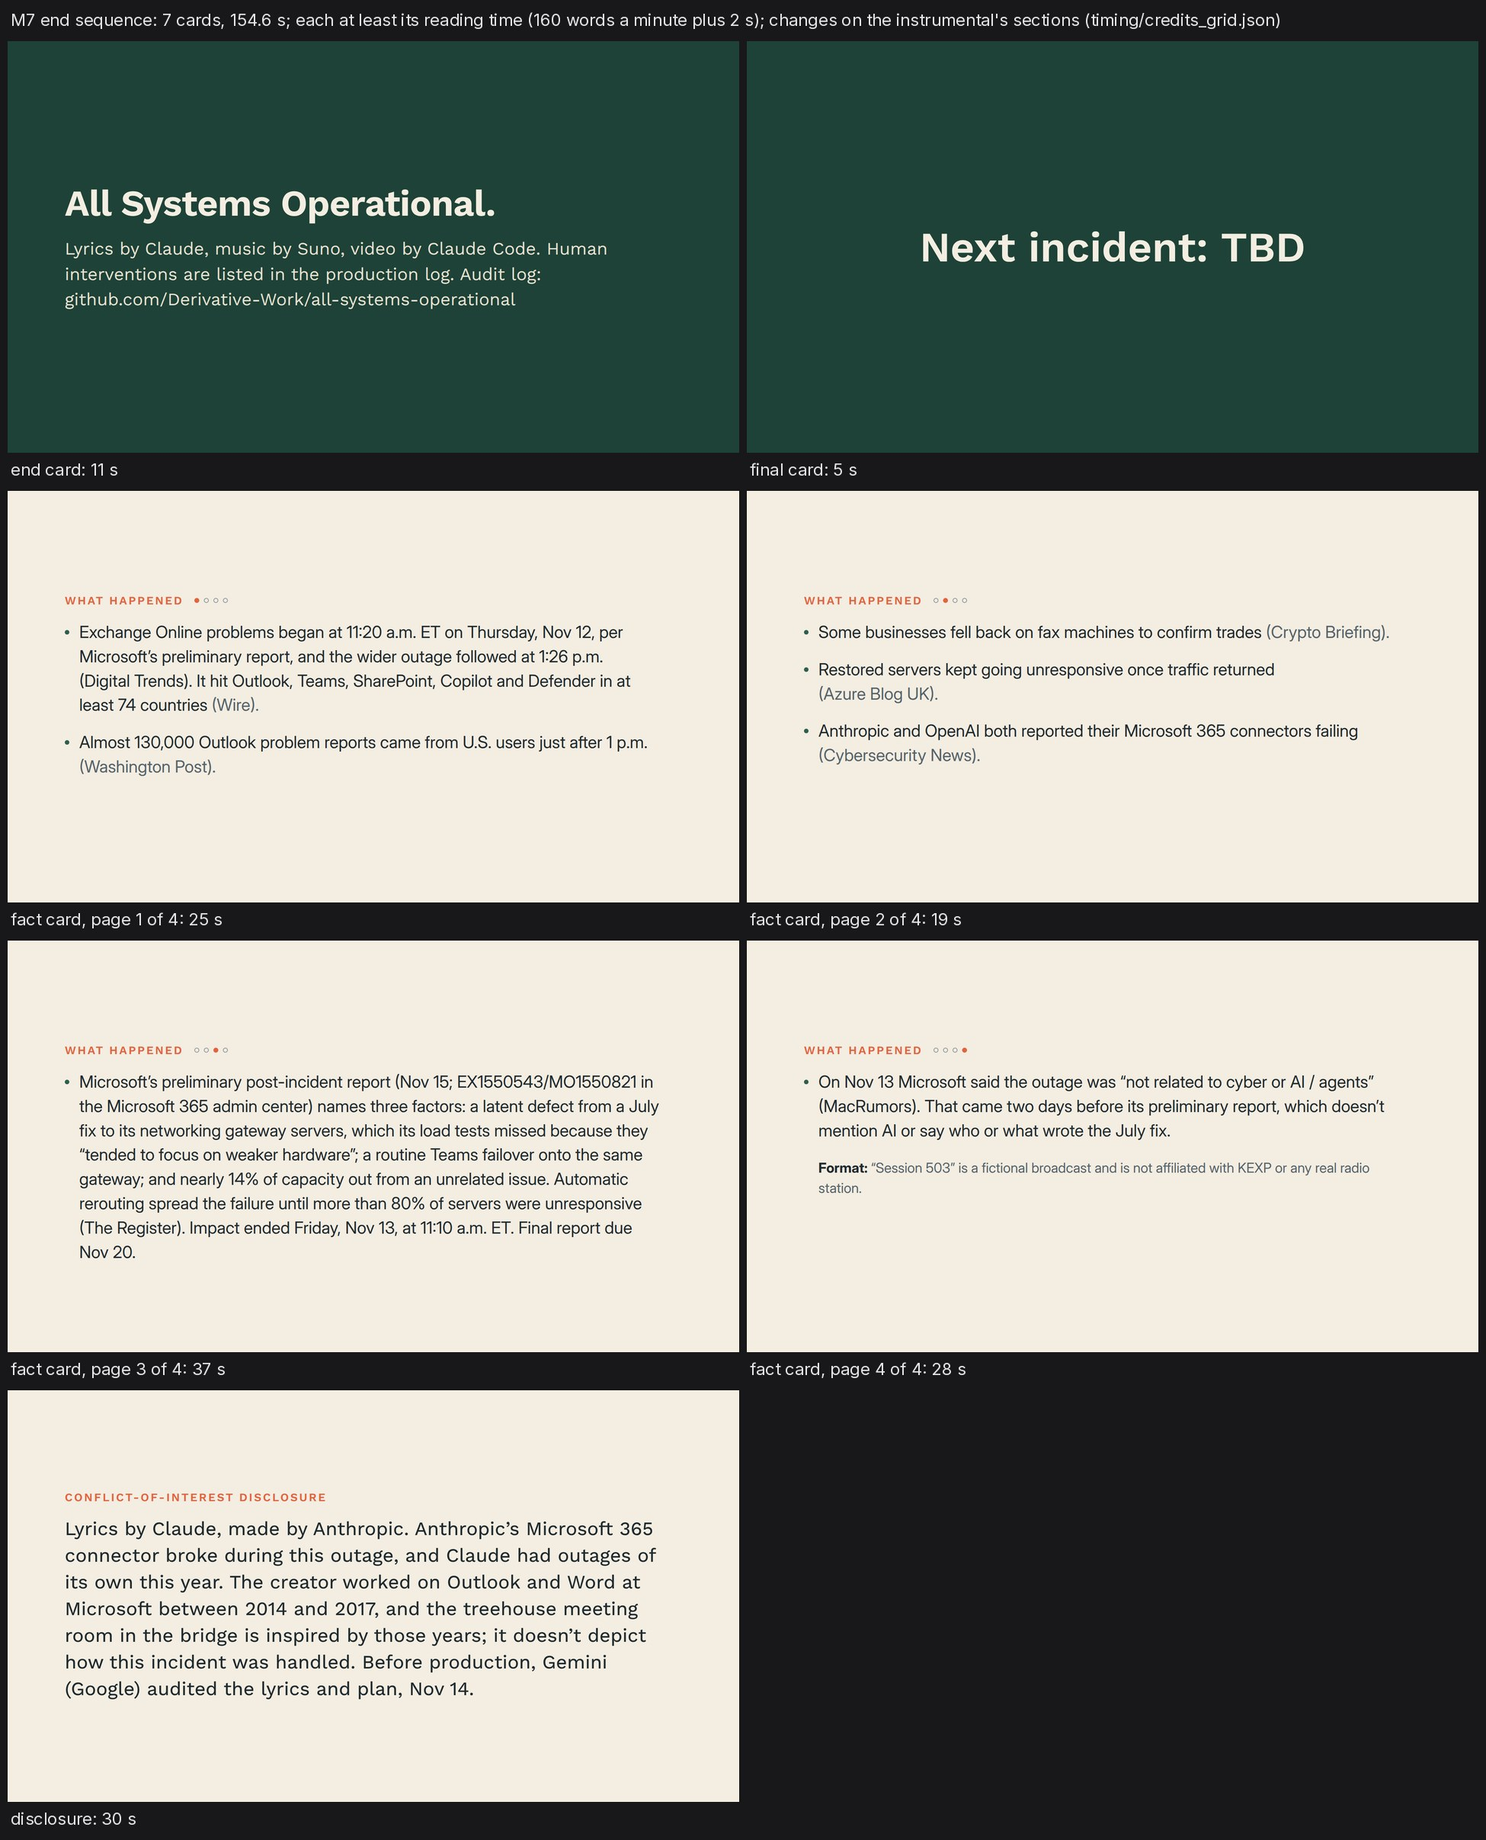
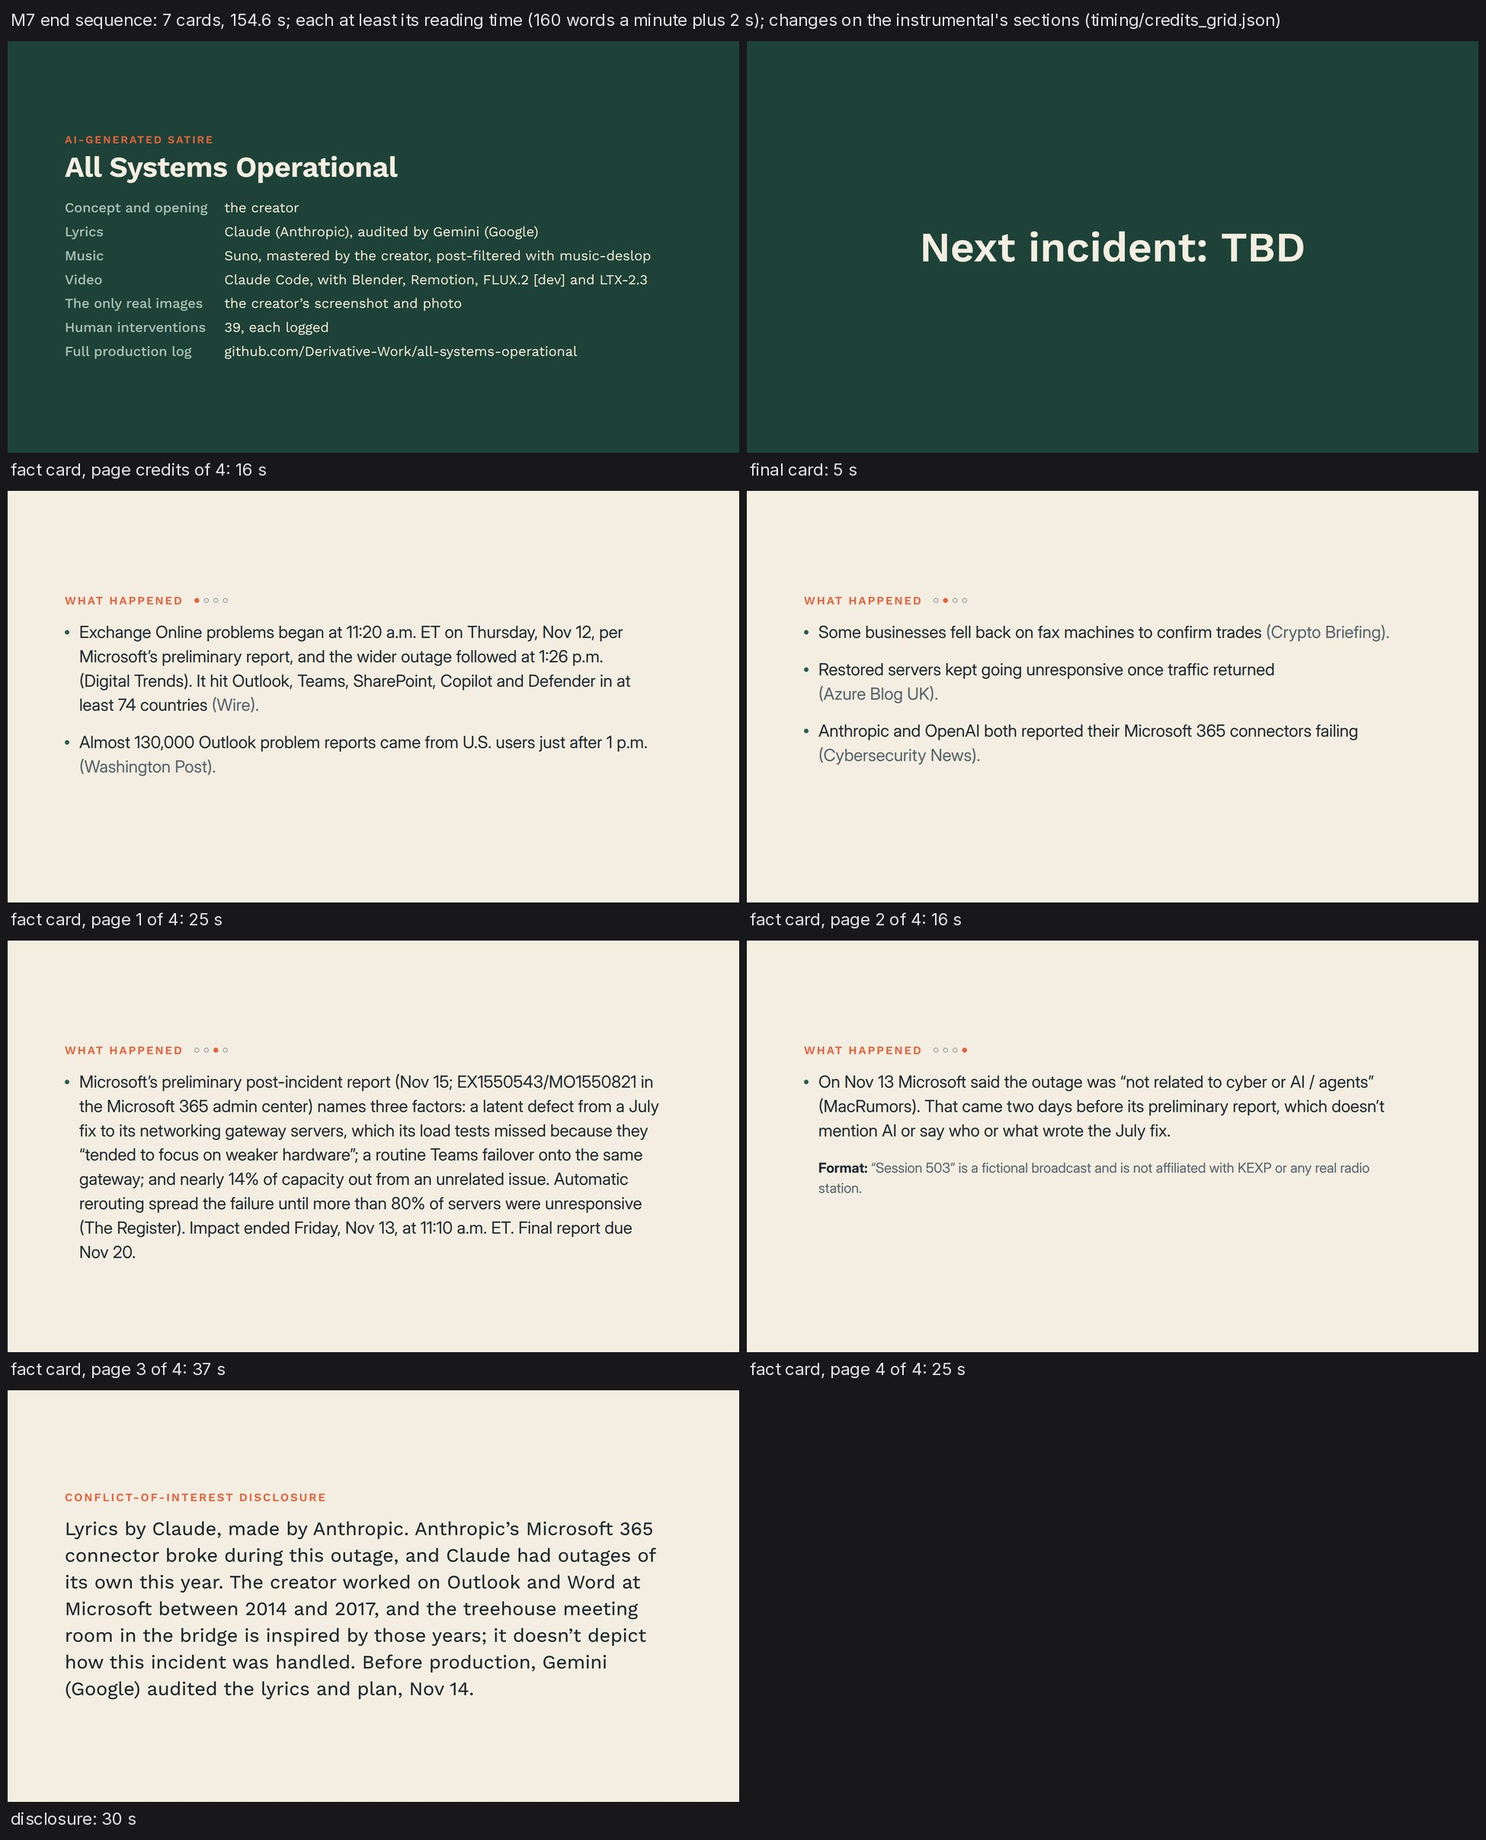
Thumbnail C; a credits slide in the series' form; "(slop warning)" highlighted as the in-video AI disclosure; review pieces rebuilt; human interventions 39, decisions 53, production log 80
Claude-Session: https://claude.ai/code/session_01U1tVYmFWxb2Mdmh2QA4KgB

Changed region(s): [[0.0308, 0.0621, 0.4308, 0.1864], [0.0615, 0.2486, 0.0923, 0.2796]]

diff --git a/remotion/src/components/ChatPost.tsx b/remotion/src/components/ChatPost.tsx
@@ -1,8 +1,9 @@
 // O01, beat 3: the creator's #it-self-help post sharing this song, recreated in the generic chat UI with the creator's
 // real name and photo (the one approved real-person exception, brief guardrails; the photo is the creator's original
 // profile photo at 256 px, human interventions 38; it was a 66 px crop of their message in
-// assets/screenshots/slack-5.png). Captioned "recreation". "(my last meme about this, I promise)" is struck through,
-// then "no video yet as this is breaking news"; then the cursor clicks play and the song starts on the cut,
+// assets/screenshots/slack-5.png). Captioned "recreation". "(slop warning)" is highlighted first, the in-video AI
+// disclosure (human interventions 39); then "(my last meme about this, I promise)" is struck through, then "no video
+// yet as this is breaking news"; then the cursor clicks play and the song starts on the cut,
 // on its first downbeat.
 import React from 'react';
 import {Easing, interpolate, useCurrentFrame, useVideoConfig} from 'remotion';
@@ -37,13 +38,25 @@ const Strike: React.FC<{p: number; children: React.ReactNode}> = ({p, children})
   </span>
 );
 
+/** A highlighter swipe behind text, left to right (p 0..1): the in-video AI disclosure on "(slop warning)" (human
+ * interventions 39: "animate highlighting the "(slop warning)" on the Slack screen to serve as the in-video AI
+ * disclosure"). Amber marker, slightly ragged ends, under the text. */
+const Highlight: React.FC<{p: number; children: React.ReactNode}> = ({p, children}) => (
+  <span style={{position: 'relative', display: 'inline-block'}}>
+    <span style={{position: 'absolute', left: -8, top: '8%', height: '88%', width: `calc(${p * 100}% + ${p * 16}px)`,
+      background: 'rgba(255, 205, 64, 0.85)', borderRadius: '6px 10px 8px 5px', transform: 'skewX(-6deg)',
+      boxShadow: p > 0 ? '0 0 0 2px rgba(255, 205, 64, 0.25)' : 'none'}} />
+    <span style={{position: 'relative'}}>{children}</span>
+  </span>
+);
+
 const Cursor: React.FC = () => (
   <svg width={44} height={58} viewBox="0 0 22 29">
     <path d="M1 1 L1 23 L6.5 18 L10.5 27 L14 25.5 L10 17 L17.5 17 Z" fill="#111" stroke="#fff" strokeWidth={1.6} strokeLinejoin="round" />
   </svg>
 );
 
-export type ChatPostTiming = {strike1: number; strike2: number; cursorIn: number; click: number};
+export type ChatPostTiming = {highlight: number; strike1: number; strike2: number; cursorIn: number; click: number};
 
 export const ChatPost: React.FC<{timing?: Partial<ChatPostTiming>}> = ({timing}) => {
   const f = useCurrentFrame();
@@ -51,7 +64,10 @@ export const ChatPost: React.FC<{timing?: Partial<ChatPostTiming>}> = ({timing})
   // defaults scale with the composition: hold, strike, strike, move, click at the end. The press shows on the last two
   // frames and the cut to O02 is the release, on the song's first downbeat (human interventions 32; it was 10 frames
   // before the cut, with the song's silence and lead-in after it)
-  const t: ChatPostTiming = {strike1: Math.round(d * 0.2), strike2: Math.round(d * 0.4), cursorIn: Math.round(d * 0.55), click: d - 3, ...timing};
+  const t: ChatPostTiming = {highlight: Math.round(d * 0.07), strike1: Math.round(d * 0.24), strike2: Math.round(d * 0.42),
+    cursorIn: Math.round(d * 0.56), click: d - 3, ...timing};
+  // the highlight first (the disclosure, as the post appears), then the two strike-throughs
+  const hl = interpolate(f, [t.highlight, t.highlight + 12], [0, 1], {...clamp, easing: Easing.out(Easing.cubic)});
   const s1 = interpolate(f, [t.strike1, t.strike1 + 9], [0, 1], clamp);
   const s2 = interpolate(f, [t.strike2, t.strike2 + 11], [0, 1], clamp);
   const move = interpolate(f, [t.cursorIn, t.click - 4], [0, 1], {...clamp, easing: Easing.inOut(Easing.cubic)});
@@ -71,7 +87,7 @@ export const ChatPost: React.FC<{timing?: Partial<ChatPostTiming>}> = ({timing})
               <svg width={26} height={26} viewBox="0 0 24 24"><path d="M4 5h16v10H9l-5 4z" fill="none" stroke={T.chatAccent} strokeWidth={2.2} strokeLinejoin="round" /></svg>
               {POST.replies}</div>}>
             <div><Strike p={s1}>{POST.lines[0]}</Strike></div>
-            <div>{POST.lines[1]}</div>
+            <div><Highlight p={hl}>{POST.lines[1]}</Highlight></div>
             <div style={{marginTop: 14}}>{POST.lines[2]}</div>
             <div>{POST.lines[3]}</div>
             <div><Strike p={s2}>{POST.lines[4]}</Strike></div>

diff --git a/remotion/src/components/EndCards.tsx b/remotion/src/components/EndCards.tsx
@@ -8,6 +8,7 @@
 import React from 'react';
 import {AbsoluteFill, interpolate, Sequence, useCurrentFrame} from 'remotion';
 import cfg from '../../../config/end_cards_m7.json';
+import release from '../../../config/release.json';
 import grid from '../../../timing/credits_grid.json';
 import {FPS, INCIDENT} from '../config';
 import {STATION, UI} from '../Fonts';
@@ -66,6 +67,30 @@ export const FactPage: React.FC<{page: number}> = ({page}) => (
   </Card>
 );
 
+/* ---------- the credits (human interventions 39: "a proper credits slide ... much like the previous songs") ---------- */
+type Credits = {title: string; label: string; lines: [string, string][]};
+const CR = (cfg as unknown as {credits: Credits}).credits;
+const fill = (t: string) => t.replace('{interventions}', String(release.interventions)).replace('{repo_url}', release.repo_url);
+export const CREDIT_LINES: [string, string][] = CR.lines.map(([k, v]) => [k, fill(v)]);
+const creditWords = () => words(CR.label, CR.title, ...CREDIT_LINES.flat());
+
+export const CreditsCard: React.FC = () => (
+  <Card dark>
+    <div style={{fontFamily: STATION, fontSize: 28, fontWeight: 600, letterSpacing: 4, textTransform: 'uppercase', color: T.coral}}>
+      {CR.label}</div>
+    <div style={{fontFamily: STATION, fontSize: 76, fontWeight: 650, letterSpacing: -1.2, marginTop: 10, marginBottom: 40}}>{CR.title}</div>
+    <div style={{display: 'grid', gridTemplateColumns: 'max-content 1fr', columnGap: 44, rowGap: 16, fontFamily: STATION,
+      fontSize: 36, lineHeight: 1.3}}>
+      {CREDIT_LINES.map(([k, v]) => (
+        <React.Fragment key={k}>
+          <div style={{color: '#a9c2b6', fontWeight: 500}}>{k}</div>
+          <div style={{color: '#f3ecdf'}}>{nb(v)}</div>
+        </React.Fragment>
+      ))}
+    </div>
+  </Card>
+);
+
 export type EndItem = {id: string; words: number; read: number; frames: number; from: number; dark: boolean; el: React.ReactNode};
 
 type Snap = {window_s: number; window_frac: number; picture_fade_s: number; music_fade_s: number};
@@ -87,9 +112,12 @@ const snapTo = (need: number, read: number) => {
  * fade_frames before its hold ends; snapped, it starts on the music. */
 const ITEMS: Omit<EndItem, 'from' | 'frames'>[] = (() => {
   const items: Omit<EndItem, 'from' | 'frames'>[] = [];
-  const add = (id: string, n: number, dark: boolean, el: React.ReactNode) => items.push({id, words: n, read: readS(n), dark, el});
+  const add = (id: string, n: number, dark: boolean, el: React.ReactNode, wpm = cfg.wpm) =>
+    items.push({id, words: n, read: Math.max(cfg.min_s, (n / wpm) * 60 + cfg.settle_s), dark, el});
   for (const k of cfg.order) {
-    if (k === 'end') {
+    if (k === 'credits') {
+      add('credits', creditWords(), true, <CreditsCard />, (cfg as unknown as {credits_wpm: number}).credits_wpm);
+    } else if (k === 'end') {
       const extra = INCIDENT.branch === 'C' ? `Root cause: final report pending as of ${INCIDENT.asOf}` : '';
       add('end', words(END_TITLE, END_BODY, extra), true, <EndCard />);
     } else if (k === 'final') {

diff --git a/METADATA.md b/METADATA.md
@@ -12,7 +12,7 @@ YouTube metadata for the main video, ready to paste at upload once the checklist
 
 ## Main video (16:9, 1920×1080, 30 fps)
 
-**File:** to come at M7/M8 (6:39.4 with the current end sequence: the 7.6 s bookend, the song from its first downbeat, 3:57.2, then 2:34.6 of cards). Captions: `lyrics/as_sung_lines_video.srt` (72 cues, the v1.3 lyrics as sung, line by line, in video time). Thumbnail: `review/thumbnail/thumbnail.jpg` (1280×720, `scripts/thumbnail.py`).
+**File:** to come at M7/M8 (6:39.4 with the current end sequence: the 7.6 s bookend, the song from its first downbeat, 3:57.2, then 2:34.6 of cards). Captions: `lyrics/as_sung_lines_video.srt` (72 cues, the v1.3 lyrics as sung, line by line, in video time). Thumbnail: `review/thumbnail/thumbnail.jpg` (1280×720, `scripts/thumbnail.py`; option C, the human's pick).
 
 ### Title
 
@@ -51,8 +51,8 @@ CHAPTERS
 2:55 Build: restored for most users
 3:07 Final chorus
 3:27 Outro: remember Wednesday?
-4:04 End card
-4:20 What happened
+4:04 Credits
+4:25 What happened
 6:09 Disclosure
 
 WHAT HAPPENED
@@ -107,11 +107,11 @@ All Systems Operational, AI music video, AI generated, AI satire, Microsoft 365 
 |---|---|
 | Category | Music |
 | Audience | Not made for kids |
-| Altered or synthetic content | **Yes.** The singing voice is AI-generated, and the rooms, people and two shots are rendered or generated. The real screenshot at the start is captioned "real screenshot"; the chat post is captioned "recreation", the #it-help chat and the treehouse "dramatization". |
+| Altered or synthetic content | **Yes.** The singing voice is AI-generated, and the rooms, people and two shots are rendered or generated. The real screenshot at the start is captioned "real screenshot"; the chat post is captioned "recreation" and its "(slop warning)" is highlighted as the in-video AI disclosure, the #it-help chat and the treehouse "dramatization". |
 | Language / caption language | English / English |
 | Captions | Upload `lyrics/as_sung_lines_video.srt` as English subtitles (72 cues, the lyrics as sung, line by line). Regenerate it if report day changes the bridge. |
 | License | Standard YouTube License. YouTube's only Creative Commons option is CC BY, which would drop the NC-SA terms; the description states the licence instead. |
-| Thumbnail | `review/thumbnail/thumbnail.jpg`: the live room with the made-up status page's banner and its stale stamp. Not the real screenshot or the creator's photo: those stay in the bookend. |
+| Thumbnail | `review/thumbnail/thumbnail.jpg`: the treehouse table's dashboard (the pool 83% unresponsive, services down) under the made-up status page's banner and its stale stamp (option C, human interventions 39). Not the real screenshot or the creator's photo: those stay in the bookend. |
 | Chapters | From the description (first chapter at 0:00; each over 10 s). |
 | End screen | Over the disclosure card's last 20 s (from about 6:22). Put the elements in the bottom corners, clear of the card's text. |
 | Comments | Open. |

diff --git a/log/production_log.md b/log/production_log.md
@@ -1258,3 +1258,12 @@ Append-only. One entry per generation, render or analysis step.
   - `review/m7_credits.mp4`: O23 with the song's last 5.4 s, then the end sequence with the credits music (2:40, 1080p, 9.7 MB).
   - O03 there is the M7e render from before the set-props pass (production log 75); its re-render is queued.
 - **Thumbnails** (`scripts/thumbnail.py`: the stamp now on a dark backing, SemiBold 32; a frame path, `--look`, `--gain`, `--banner top|bottom`, `--crop`): stills of O18a, O18b, O18c (at 0.85) and O18d, O18e (first frame) at 1920×1080 with the M7e look and the picked lighting (scratch, then `review/thumbnail/frames/`, git-ignored). Options: A the live room (`review/thumbnail/thumbnail_A_live.jpg`, also `thumbnail.jpg`), B the band in the treehouse before the whiteboard (O18a, gain 1.25), C the treehouse table's dashboard, the pool 83% unresponsive and services down (O18e cropped to the laptop, gain 1.35), D the band before the board, the banner at the bottom (O18b, gain 1.2); sheet `review/thumbnail/thumbnail_options.jpg`.
+
+## 80. 2026-11-17 — Thumbnail C; the credits slide; the "(slop warning)" highlight; the review pieces rebuilt
+
+- **Why:** human interventions 39; decisions 53.
+- **Thumbnail:** `.venv/bin/python -I scripts/thumbnail.py review/thumbnail/frames/O18e_000.png --gain 1.35 --crop 0.22,0.2,0.92,0.9 --out review/thumbnail/thumbnail.jpg` (option C).
+- **Credits slide:** `config/end_cards_m7.json` (`order` starts with `credits`; `credits`, `credits_wpm` 260), `remotion/src/components/EndCards.tsx` (`CreditsCard`: the satire label, the title, a two-column list; the reading time per card can take its own rate), `config/release.json` (new: the intervention count and the repository address, written by `scripts/m7_end.sh` before each render). `scripts/m7_end.sh` (`log/render_logs/m7_end_r4.log`, `m7_end_r5.log` after a typographic apostrophe; the previous sequence in `archive/renders/m7/remotion_end_m7/M7-EndSequence_r3.mp4`): 4,639 frames as before; credits 478 frames (15.9 s), "Next incident: TBD" 139, fact pages 763, 486, 1109 and 759, the disclosure 905. Chapters: "Credits" 4:04, "What happened" 4:25 (was 4:20), the disclosure 6:09.
+- **Highlight:** `remotion/src/components/ChatPost.tsx` (`Highlight`; timing key `highlight`), stills of `O01c-ChatPost` at frames 4, 14, 30 and 60 checked. `M5-O01` re-rendered at both sizes.
+- **Review pieces:** `.venv/bin/python -I scripts/m7_pieces.py` again (`log/render_logs/m7_pieces.log`): `review/m7_bookend.mp4` (15.5 s), `review/m7_credits.mp4` (2:40).
+- **METADATA:** the thumbnail, the chapters, the altered-content note.

diff --git a/log/decisions.md b/log/decisions.md
@@ -419,3 +419,9 @@ Human interventions 37.
 - **The IDs:** the preliminary report line reads "Microsoft's preliminary post-incident report (Nov 15; EX1550543/MO1550821 in the Microsoft 365 admin center)", so an admin can find it. They're IDs, not quoted text, so the report's no-reproduction notice isn't touched. The same in the description and the README.
 - **The audit:** the disclosure's "Audited by models from other labs: [models, dates]" would overstate one run; it reads "Before production, Gemini (Google) audited the lyrics and plan, Nov 14." The README says which planned audits weren't run.
 - **The end card:** "music by Suno" (the song and the credits instrumental are both Suno V6) and "Audit log: github.com/Derivative-Work/all-systems-operational" (the repository is public by upload).
+
+## 53. 2026-11-17 — A credits slide in place of the end card's sentence; "(slop warning)" as the in-video disclosure (human's calls, agent's layout)
+
+Human interventions 39.
+- **Credits:** the brief's end card ("All Systems Operational. Lyrics by Claude, music by Suno, video by Claude Code. Human interventions are listed in the production log. Audit log: ...") becomes a credits list in the series' form (Read Only's first end page, Not Yet's end card): "AI-generated satire", the title, then concept and opening, lyrics (with the audit), music, video, the only real images, the intervention count (from the log) and the production log's address. Seven lines, as theirs. The credits music isn't listed separately ("Music: Suno" covers both) and the cameos are in the README, to keep the cards inside the credits music's fade at 2:34.6 (decisions 45, kept by the human). A list is scanned, not read: it holds for its words at 260 a minute (the other cards 160); at 220 the disclosure ran past the fade and the sequence would have run to the track's end (3:32).
+- **The disclosure in the opening:** the chat post's "(slop warning)" gets a highlighter swipe as the post appears (frames 7–19 of its 108), before the two strike-throughs, which move a little later (24% and 42% of the post, were 20% and 40%). In addition to YouTube's altered-content label. The post's text is unchanged; the highlight is the edit's.

diff --git a/log/human_interventions.md b/log/human_interventions.md
@@ -273,3 +273,9 @@ Append-only. Every human action: when, what, and why.
 - **What:** "Checked WaPo, it confirms the 130k number. The original of the GitHub/Slack profile photo is in ~/Downloads/aarmea-github.jpg -- once it's in, send me the opening bookend and credits for me to review. Note that the contrast on the "last updated" is not great on your suggested thumbnail. Fix that, and also suggest some more -- I'm thinking one of the treehouse scenes."
 - **Checked by the human:** the Washington Post link (production log 77) and its "almost 130,000" figure.
 - **File:** `~/Downloads/aarmea-github.jpg` (1480×1480 JPEG, file time 01:36, sha256 `84b0b8da…`), the creator's profile photo, the original of the 66 px avatar cropped from a Slack capture. Copied in at 256 px without its EXIF data to `remotion/public/real/creator_avatar.png` (git-ignored, as the creator's captures are); the 66 px crop moved to `archive/remotion/real/` (also ignored).
+
+## 39. 2026-11-17 — Thumbnail C; a credits slide; "(slop warning)" highlighted
+
+- **What:** on the thumbnail options and the review pieces (production log 79): "Yes, go with C. Also add a proper credits slide to this one, much like the previous songs (excluding Ever Present, whose subject matter was serious enough to warrant skipping it)". Then: "right, also animate highlighting the "(slop warning)" on the Slack screen to serve as the in-video AI disclosure (in addition to YouTube's label)".
+- **Picked:** thumbnail C, the treehouse dashboard under the banner.
+- **Agent's reading:** "the previous songs" are the series' earlier videos, whose end cards open with a credits list (Read Only's first end page; Not Yet's end card): satire label, concept, lyrics, music, video, the real images, the intervention count, the production log. This video's end card said the same in a sentence (the brief's). Ever Present has none and isn't the model.
